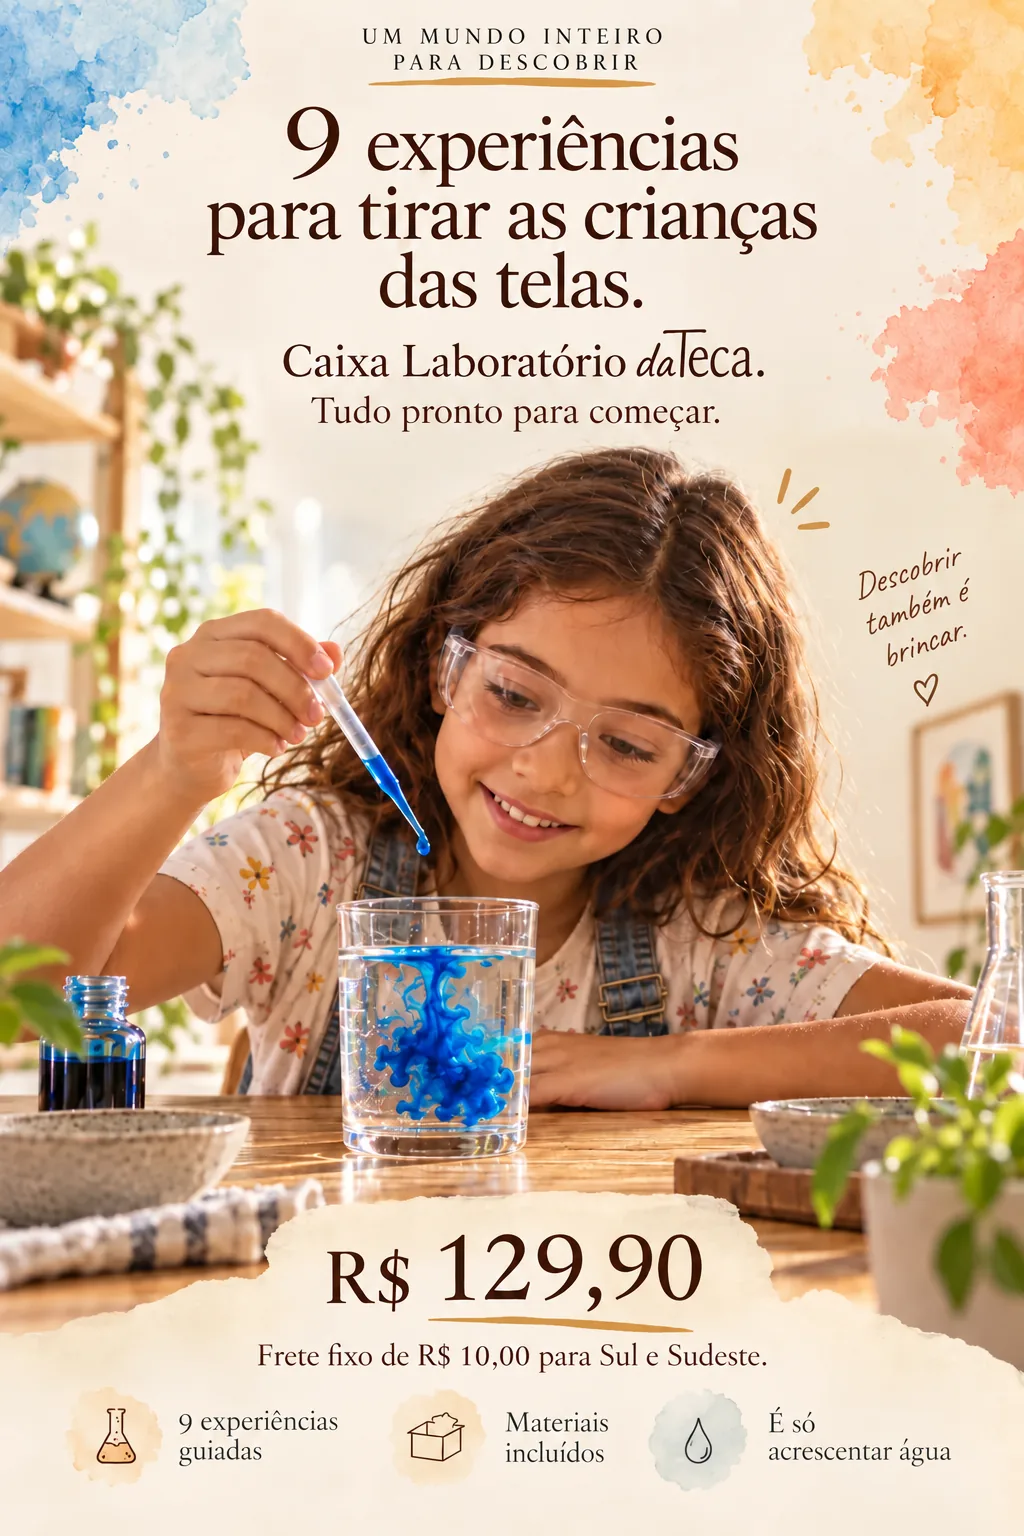
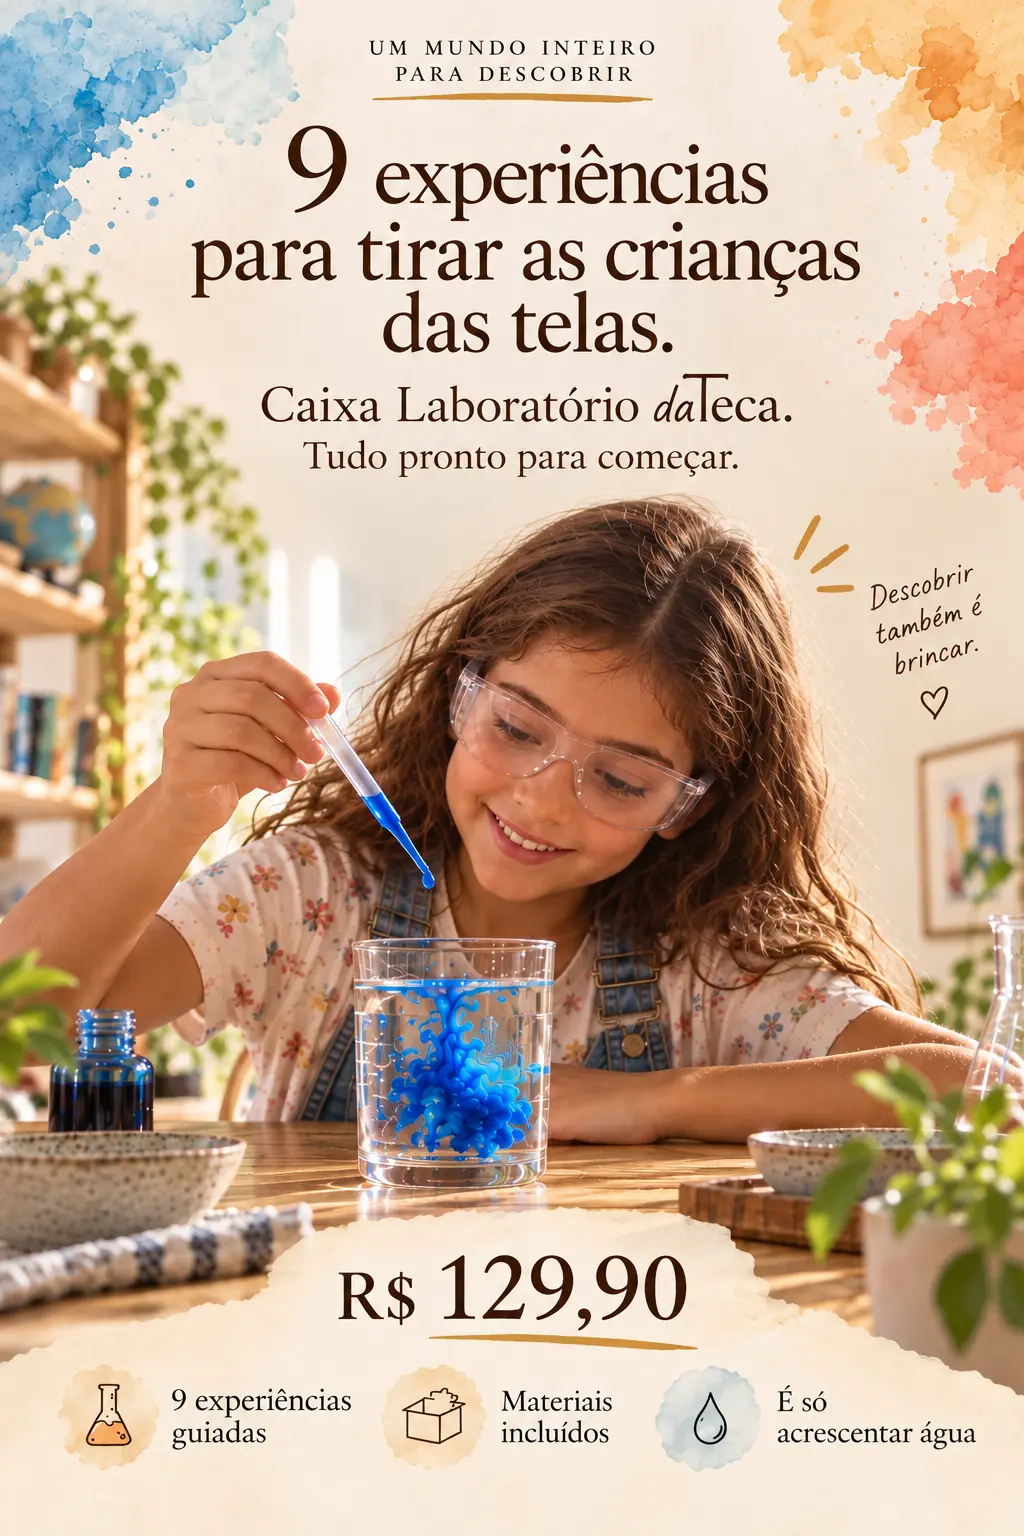
Atualiza imagem e informacoes da Caixa Laboratorio

diff --git a/src/pages/CaixaLaboratorio/caixaLaboratorioData.ts b/src/pages/CaixaLaboratorio/caixaLaboratorioData.ts
@@ -1,5 +1,9 @@
 import { HOTMART_CHECKOUT_URL } from "../../config/caixaLaboratorioCheckout"
-import { entryProduct } from "../../config/productStrategy"
+import {
+  entryProduct,
+  entryProductShippingConsultLabel,
+  entryProductShippingFaqAnswer,
+} from "../../config/productStrategy"
 import { socialLinks } from "../../data/socialLinks"
 
 const IMG = "/images/caixa-laboratorio"
@@ -8,7 +12,7 @@ const IMG = "/images/caixa-laboratorio"
  * Subir este valor sempre que trocar os WebPs da landing.
  * Evita cache do CDN/navegador servir a imagem antiga sob o mesmo nome.
  */
-export const CAIXA_IMAGE_VERSION = "20261004a"
+export const CAIXA_IMAGE_VERSION = "20261027a"
 
 function caixaImg(fileName: string): string {
   return `${IMG}/${fileName}?v=${CAIXA_IMAGE_VERSION}`
@@ -77,7 +81,7 @@ export const caixaLaboratorioData = {
       "Neste Dia das Crianças, dê um presente que vira um laboratório de descobertas.",
     subtitle:
       "Tudo organizado, identificado e guiado para a criança abrir a caixa, escolher uma experiência e começar. Para crianças de 5 a 10 anos, com supervisão de um adulto.",
-    dispatchNote: "Envio em até 3 dias úteis.",
+    dispatchNote: "Envio em até 5 dias úteis.",
     cards: {
       ready: {
         title: "Abriu a caixa, escolheu uma experiência e começou.",
@@ -91,7 +95,7 @@ export const caixaLaboratorioData = {
     poster9GuiadasAlt:
       "Dia das Crianças — Caixa Laboratório daTeca: um presente que vira descoberta, 9 experiências guiadas",
     cta: "QUERO MINHA CAIXA LABORATÓRIO",
-    ctaPriceHint: "R$ 129,90 + frete fixo R$ 10",
+    ctaPriceHint: "R$ 129,90",
     note: "Compra única. Não é assinatura.",
     paymentNote: "Pagamento seguro pela Hotmart.",
   },
@@ -103,9 +107,8 @@ export const caixaLaboratorioData = {
       currency: "BRL",
     }),
     priceValue: entryProduct.priceBRL.toFixed(2),
-    shippingLine1: "Frete fixo de R$ 10 para Sul e Sudeste.",
-    shippingLine2: "Frete e prazo calculados no checkout.",
-    dispatchNote: "Envio em até 3 dias úteis.",
+    shippingLine1: "",
+    dispatchNote: "Envio em até 5 dias úteis.",
     purchaseTypeNote: "Compra única. Não é assinatura.",
   },
 
@@ -253,12 +256,12 @@ export const caixaLaboratorioData = {
       {
         question: "Como funciona o frete?",
         answer:
-          "O frete é fixo em R$ 10 para Sul e Sudeste. Para as demais regiões, valor e prazo são calculados no checkout.",
+          entryProductShippingFaqAnswer,
       },
       {
         question: "Em quanto tempo a caixa é enviada?",
         answer:
-          "O pedido é preparado e enviado em até 3 dias úteis após a confirmação do pagamento.",
+          "O pedido é preparado e enviado em até 5 dias úteis após a confirmação do pagamento.",
       },
       {
         question: "Precisa de supervisão de um adulto?",
